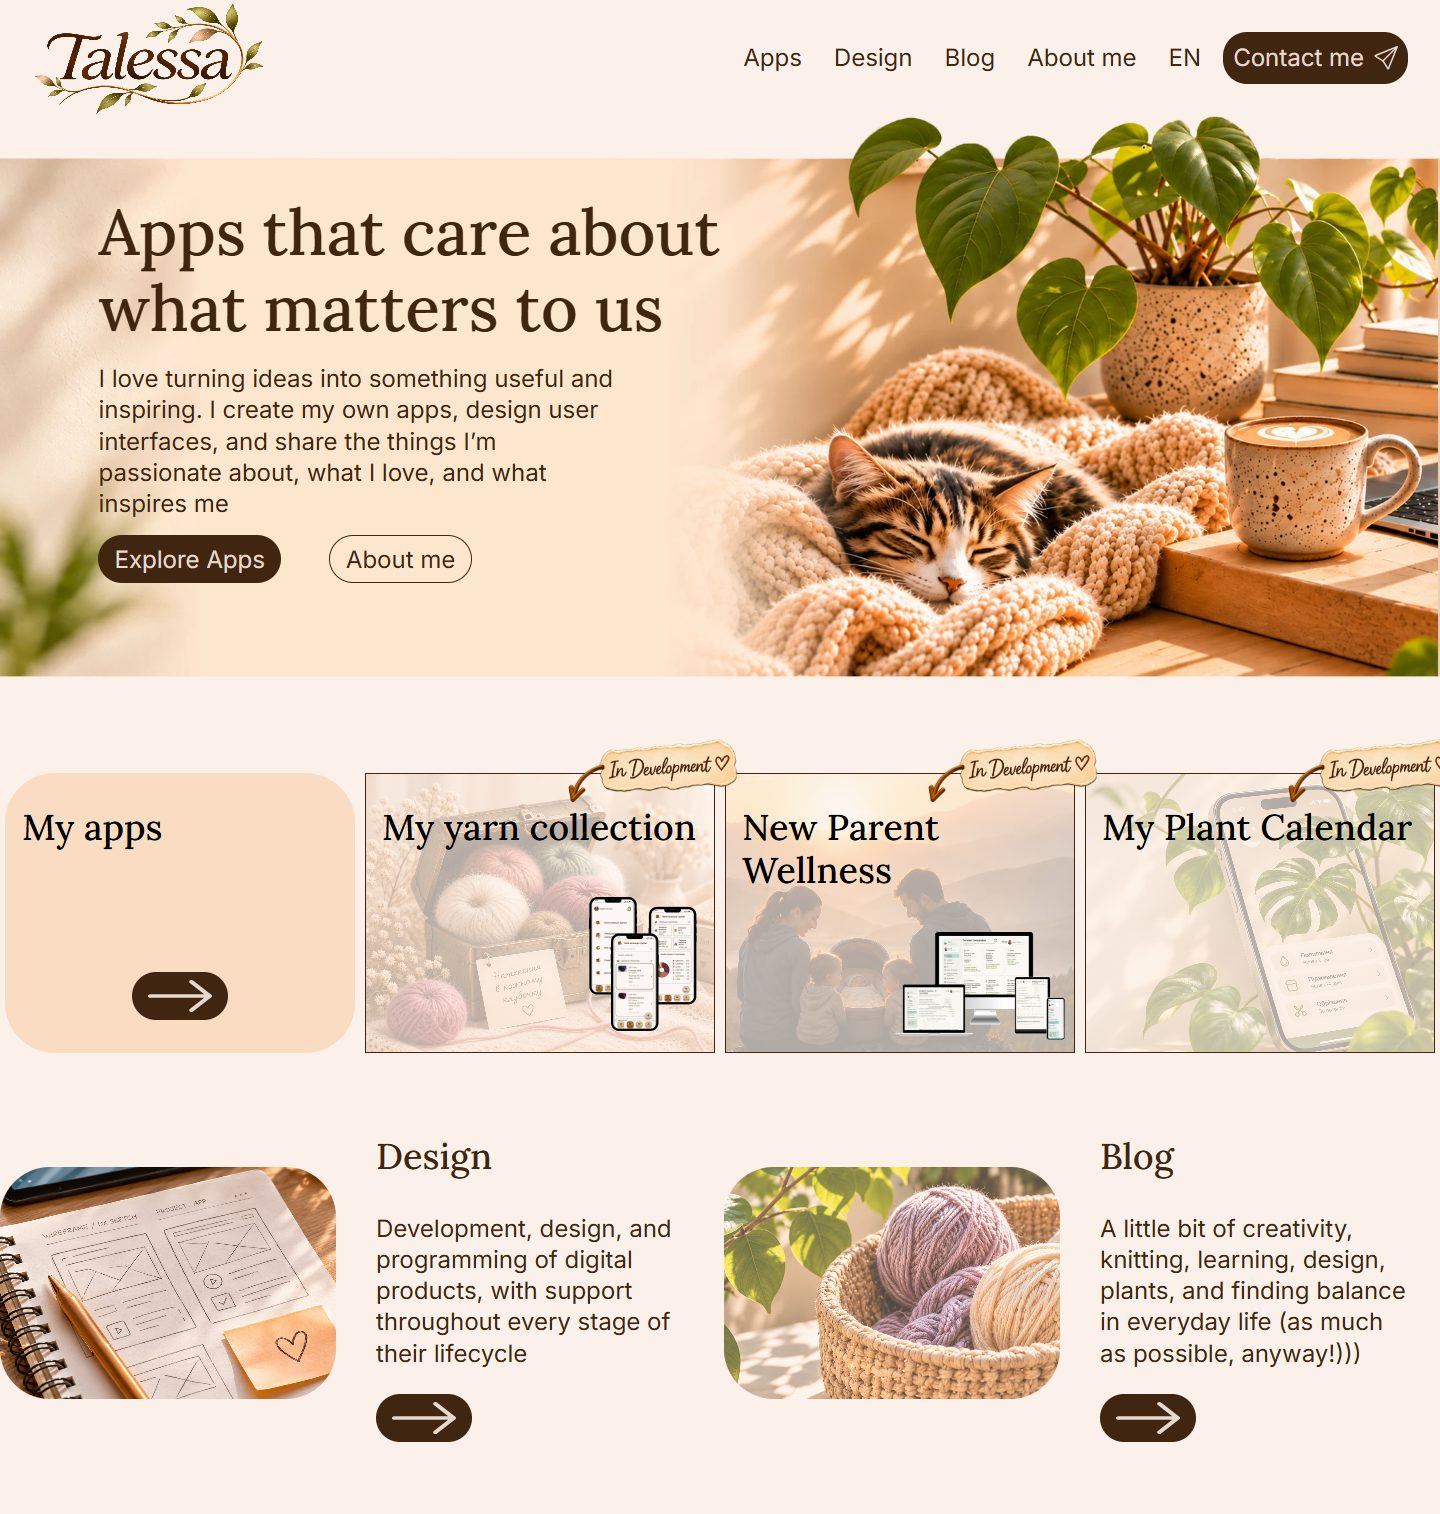
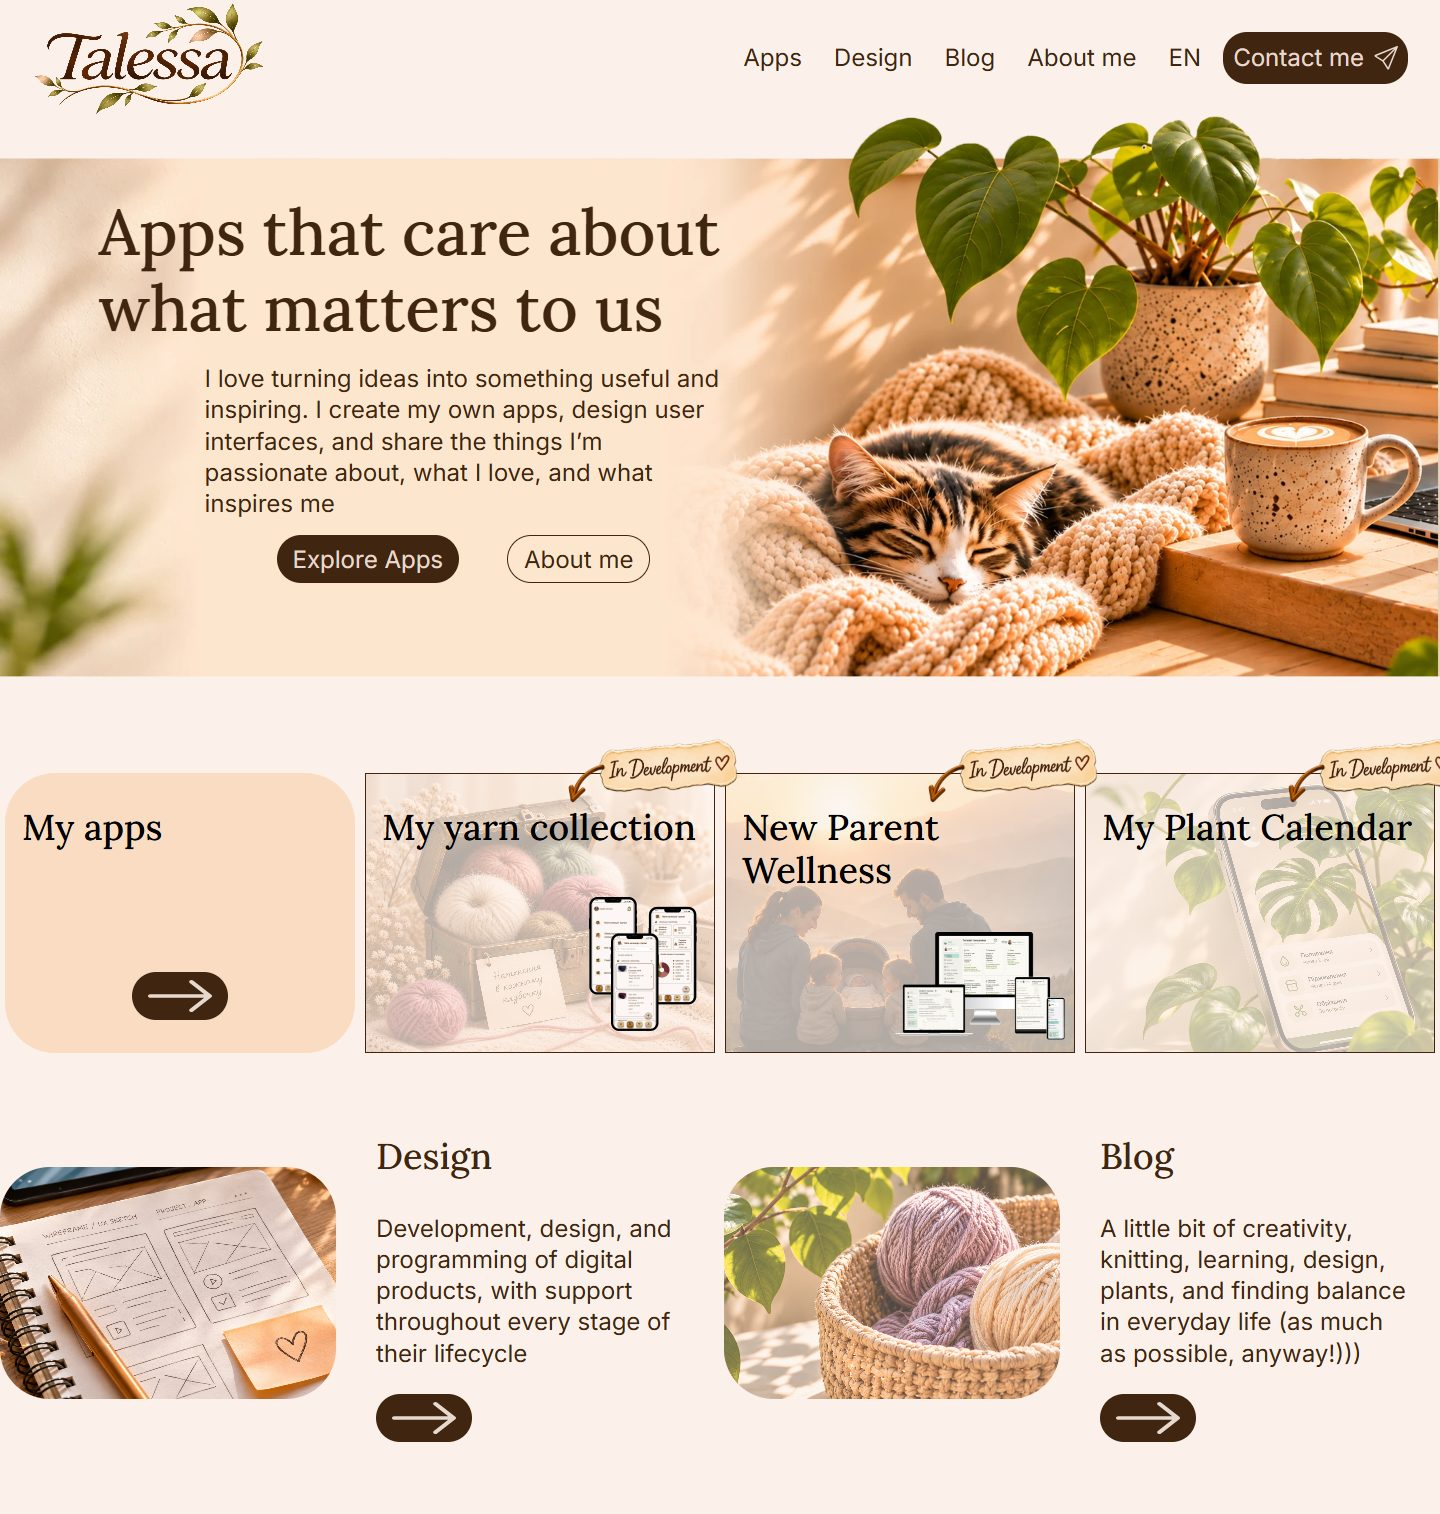
Hero: restore the original spacing (title / text / buttons), keep Design/Blog left alignment; refresh README screenshots

Changed region(s): [[0.0625, 0.2483, 0.5, 0.4036]]

diff --git a/src/App.css b/src/App.css
@@ -131,13 +131,12 @@
     left: 0;
     width: 64.375cqw;
     max-width: none;
-    padding: 5.389cqw 4.444cqw 0 6.84cqw; /* one left edge for title, text and buttons */
+    padding: 5.389cqw 4.444cqw 0;
     gap: 1.111cqw;
-    align-items: flex-start;
   }
   .hero__content h1 { width: 50.69cqw; max-width: none; font-size: 4.444cqw; }
   .hero__content p { width: 35.97cqw; max-width: none; font-size: 1.667cqw; }
-  .hero__actions { gap: 3.333cqw; padding: 0; justify-content: flex-start; }
+  .hero__actions { gap: 3.333cqw; padding: 0 5.833cqw; }
   .hero .btn {
     height: 3.333cqw;
     padding: 0 1.111cqw;
@@ -407,7 +406,7 @@
   }
   .hero__content h1 { padding: 0 1.302cqw; font-size: 5.208cqw; }
   .hero__content p { padding: 0 1.302cqw; font-size: 2.604cqw; }
-  .hero__actions { gap: 2.083cqw; padding: 0 8.333cqw 0 1.302cqw; } /* same left edge as title and text */
+  .hero__actions { gap: 2.083cqw; padding: 0 8.333cqw 0 2.083cqw; }
   .hero .btn { padding: 1.042cqw 2.083cqw; font-size: 2.083cqw; border-radius: 3.125cqw; }
 }
 
@@ -453,7 +452,7 @@
   }
   .hero__content h1 { padding: 0 2.564cqw; font-size: 10.256cqw; }
   .hero__content p { padding: 0 2.564cqw; font-size: 5.128cqw; }
-  .hero__actions { gap: 4.103cqw; padding: 0 16.41cqw 0 2.564cqw; } /* same left edge as title and text */
+  .hero__actions { gap: 4.103cqw; padding: 0 16.41cqw 0 4.103cqw; }
   .hero .btn { padding: 2.051cqw 4.103cqw; font-size: 4.103cqw; border-radius: 6.154cqw; }
   .hero__actions .btn--outline { background: var(--block); }
 
